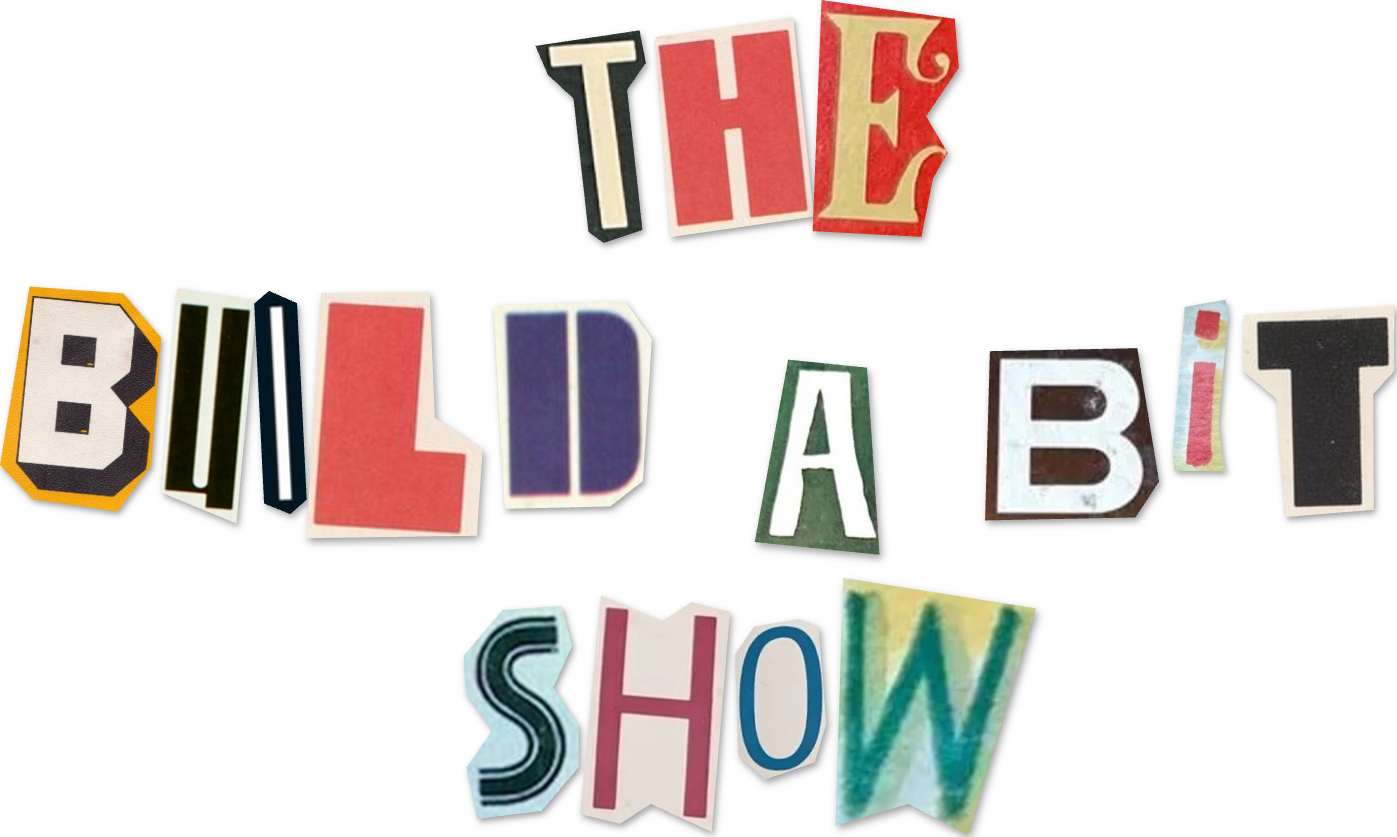
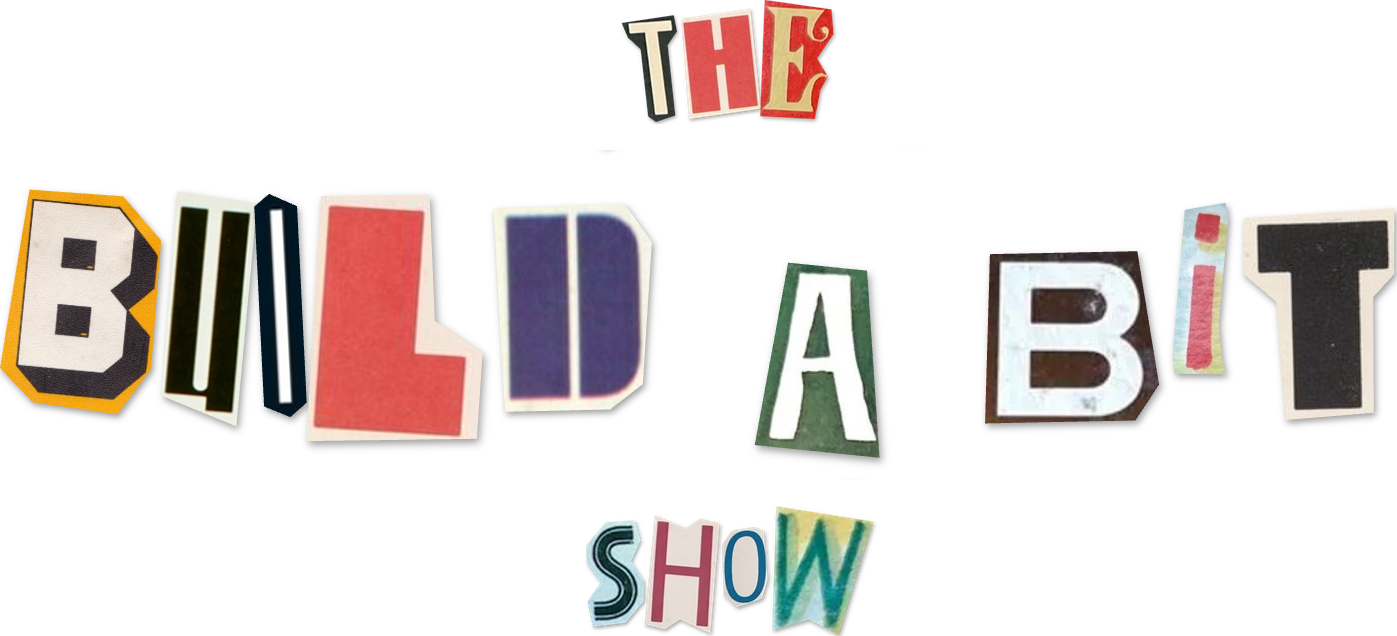
Show graphic: THE and SHOW half size, BUILD A BIT bigger
Claude-Session: https://claude.ai/code/session_01VUUYTZKJbRfPrVYhvWwVPe

diff --git a/screen.html b/screen.html
@@ -64,7 +64,7 @@ body.awake { cursor: default; }
 .prompt.dir { color: var(--bulb); }
 .logo { display: block; width: min(80vw, 150vmin); max-height: 42vh; object-fit: contain; filter: drop-shadow(0 1.2vmin 2.4vmin rgba(0,0,0,.55)); }
 .logo.welcome-art { width: min(64vw, 110vmin); max-height: 47vh; margin-bottom: 7vh; }
-.logo.small.show-art { width: min(40vw, 70vmin); max-height: 34vh; }
+.logo.small.show-art { width: min(60vw, 104vmin); max-height: 42vh; }
 .logo.small { width: min(46vw, 80vmin); max-height: 22vh; }
 .logo.enter { animation: logo-in .7s cubic-bezier(.2,.9,.25,1.15) both; }
 @keyframes logo-in { from { opacity: 0; transform: rotate(-2deg) scale(.9); } to { opacity: 1; transform: none; } }

diff --git a/common.js b/common.js
@@ -1,7 +1,7 @@
 /* Build a Bit: shared helpers for the console (index.html) and the audience screen (screen.html). */
 var BAB = (function () {
   var CHANNEL = "build-a-bit";
-  var BUILD = "2026-11-15.11";   // bump on every change so an open audience window knows it is out of date
+  var BUILD = "2026-11-15.12";   // bump on every change so an open audience window knows it is out of date
 
   function esc(s) {
     return String(s == null ? "" : s).replace(/[&<>"]/g, function (c) {
